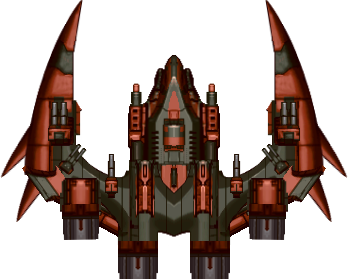
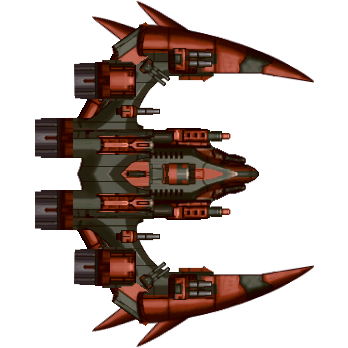
acceleration with direction

diff --git a/Fleet/Fleet/Entity/Ship.cs b/Fleet/Fleet/Entity/Ship.cs
@@ -13,56 +13,74 @@ namespace Fleet.Entity
 	public class Ship : Entity
 	{
 
-        public Ship(Texture2D texture) : base(texture)
+		public Ship(Texture2D texture) : base(texture)
 		{
-			this.Acceleration = 0.2f;
-            this.TurnAcceleration = 0.1f;
+			// this.Acceleration = 0.2f;
+			this.TurnAcceleration = 0.1f;
 		}
 
 		public override void Update(GameTime gameTime)
 		{
+			// TODO: Prevent rotation overflow
+
 			var currentKBState = Keyboard.GetState();
 
-            Velocity = Velocity + Acceleration * (gameTime.ElapsedGameTime.Milliseconds / 1000f);
-            
+			// Velocity = Velocity + Acceleration * (gameTime.ElapsedGameTime.Milliseconds / 1000f);
+			
 
-
-            if (currentKBState.IsKeyDown(Keys.W))
-            {
-                Acceleration += 0.2f;
-            }
-            else
-                Acceleration -= 0.2f;
-
-            if (currentKBState.IsKeyDown(Keys.S))
+			if (currentKBState.IsKeyDown(Keys.W))
 			{
-                Acceleration -= 0.2f;
-            }
+				Acceleration.X = Acceleration.X + (float)Math.Cos(Rotation);
+				Acceleration.Y = Acceleration.Y + (float)Math.Sin(Rotation);
+			}
+
+			if (currentKBState.IsKeyDown(Keys.S))
+			{
+				Acceleration.X = Acceleration.X - (float)Math.Cos(Rotation);
+				Acceleration.Y = Acceleration.Y - (float)Math.Sin(Rotation);
+			}
 
 			if (currentKBState.IsKeyDown(Keys.A))
 			{
-                Rotation += TurnAcceleration;
+				Rotation -= TurnAcceleration;
 			}
 
 			if (currentKBState.IsKeyDown(Keys.D))
 			{
-                Rotation -= TurnAcceleration;
-            }
+				Rotation += TurnAcceleration;
+			}
 
-            
+			if (currentKBState.IsKeyDown(Keys.Space))
+			{
+				this.Acceleration = Vector2.Zero;
+				this.Velocity = Vector2.Zero;
+			}
+			
+			while (this.Rotation > Math.PI * 2.0f)
+			{
+				this.Rotation -= (float)Math.PI * 2.0f;
+			}
 
-            Velocity.X = Velocity.X + Acceleration * (gameTime.ElapsedGameTime.Milliseconds / 1000f);
-            
-            Position.X = Position.X + Velocity * (gameTime.ElapsedGameTime.Milliseconds / 1000f);
-            Position.Y = Position.Y + Velocity * (gameTime.ElapsedGameTime.Milliseconds / 1000f);
+			while (this.Rotation < Math.PI * 2.0f * -1.0f)
+			{
+				this.Rotation += (float)Math.PI * 2.0f;
+			}
 
-           
-        }
+			this.Acceleration.X = MathHelper.Clamp(this.Acceleration.X, -0.5f, 0.5f);
+			this.Acceleration.Y = MathHelper.Clamp(this.Acceleration.Y, -0.5f, 0.5f);
 
-        public override void Draw(SpriteBatch spriteBatch, GameTime gameTime)
+			this.Velocity.X = this.Velocity.X + this.Acceleration.X * (gameTime.ElapsedGameTime.Milliseconds);
+			this.Velocity.Y = this.Velocity.Y + this.Acceleration.Y * (gameTime.ElapsedGameTime.Milliseconds);
+
+			Position.X = Position.X + Velocity.X * (gameTime.ElapsedGameTime.Milliseconds / 1000f);
+			Position.Y = Position.Y + Velocity.Y * (gameTime.ElapsedGameTime.Milliseconds / 1000f);
+		
+		}
+
+		public override void Draw(SpriteBatch spriteBatch, GameTime gameTime)
 		{
-            spriteBatch.Draw(this.Texture, Position, null, Color.White, Rotation, new Vector2(Texture.Width/2.0f, Texture.Height/2.0f), 1, SpriteEffects.None, 1);
+			spriteBatch.Draw(this.Texture, Position, null, Color.White, this.Rotation, new Vector2(Texture.Width/2.0f, Texture.Height/2.0f), 1, SpriteEffects.None, 1);
 
-        }
-    }
+		}
+	}
 }

diff --git a/Fleet/Fleet/Game1.cs b/Fleet/Fleet/Game1.cs
@@ -14,12 +14,12 @@ namespace Fleet
 		GraphicsDeviceManager graphics;
 		SpriteBatch spriteBatch;
 
-        public static List<Entity.Entity> entityList = new List<Entity.Entity>();
-        SpriteFont font;
-        Camera camera;
+		public static List<Entity.Entity> entityList = new List<Entity.Entity>();
+		SpriteFont font;
+		Camera camera;
 		Ship ship;
 
-        Enemy enemy;
+		Enemy enemy;
 
 		public Game1()
 		{
@@ -40,8 +40,8 @@ namespace Fleet
 		/// </summary>
 		protected override void Initialize()
 		{
-            // TODO: Add your initialization logic here
-            camera = new Camera(new Vector2(0, 0), 1, 0);
+			// TODO: Add your initialization logic here
+			camera = new Camera(new Vector2(0, 0), 1, 0);
 
 			base.Initialize();
 		}
@@ -55,14 +55,14 @@ namespace Fleet
 			// Create a new SpriteBatch, which can be used to draw textures.
 			spriteBatch = new SpriteBatch(GraphicsDevice);
 
-            font = Content.Load<SpriteFont>("font");
+			font = Content.Load<SpriteFont>("font");
 
-            enemy = new Enemy(Content.Load<Texture2D>("ship"));
-            entityList.Add(enemy);
+			enemy = new Enemy(Content.Load<Texture2D>("ship"));
+			entityList.Add(enemy);
 
 			ship = new Ship(Content.Load<Texture2D>("ship"));
-            ship.Position = new Vector2(680, 360);
-            entityList.Add(ship);
+			ship.Position = new Vector2(680, 360);
+			entityList.Add(ship);
 
 
 			// TODO: use this.Content to load your game content here
@@ -87,13 +87,13 @@ namespace Fleet
 			if (GamePad.GetState(PlayerIndex.One).Buttons.Back == ButtonState.Pressed || Keyboard.GetState().IsKeyDown(Keys.Escape))
 			Exit();
 
-            // TODO: Add your update logic her
-            foreach (Entity.Entity entity in entityList)
-            {
-                entity.Update(gameTime);
-            }
+		// TODO: Add your update logic her
+		foreach (Entity.Entity entity in entityList)
+		{
+			entity.Update(gameTime);
+		}
 
-            camera.Update();
+			camera.Update();
 			base.Update(gameTime);
 		}
 
@@ -108,22 +108,22 @@ namespace Fleet
 			// TODO: Add your drawing code here
 			spriteBatch.Begin(SpriteSortMode.FrontToBack, BlendState.AlphaBlend, null, null, null, null, camera.GetTransformation(GraphicsDevice));
 
-            foreach (Entity.Entity entity in entityList)
-            {
-                entity.Draw(spriteBatch, gameTime);
-            }
+		foreach (Entity.Entity entity in entityList)
+		{
+			entity.Draw(spriteBatch, gameTime);
+		}
 			spriteBatch.End();
 
 
 
-            spriteBatch.Begin();
+			spriteBatch.Begin();
 
-            spriteBatch.DrawString(font, "X: " + ship.Position.X + ", Y: " + ship.Position.Y, new Vector2(5, 700), Color.White);
+			spriteBatch.DrawString(font, "X: " + ship.Position.X + ", Y: " + ship.Position.Y, new Vector2(5, 700), Color.White);
 
-            spriteBatch.End();
+			spriteBatch.End();
 
 
-            base.Draw(gameTime);
+			base.Draw(gameTime);
 		}
 	}
 }

diff --git a/Fleet/Fleet/Entity/Entity.cs b/Fleet/Fleet/Entity/Entity.cs
@@ -13,12 +13,13 @@ namespace Fleet.Entity
 	{
 		protected Texture2D Texture { get; private set; }
 
-        public Vector2 Position;
+		public float Rotation;
 
-        public float Rotation;
-        public Vector2 Velocity;
-        public Vector2 Acceleration;
-        public float TurnAcceleration;
+		public Vector2 Position = Vector2.Zero;
+		public Vector2 Velocity = Vector2.Zero;
+		public Vector2 Acceleration = Vector2.Zero;
+
+		public float TurnAcceleration;
 
 
 		public Entity(Texture2D texture)
